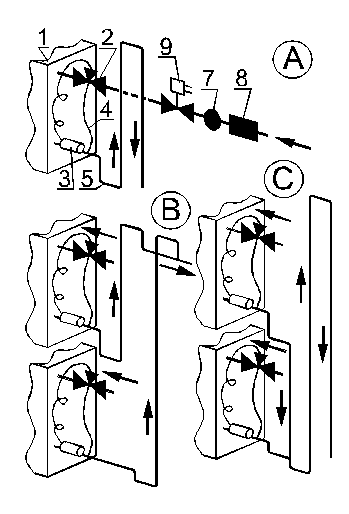
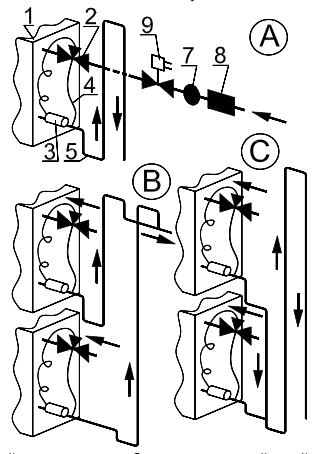
feat: catalog +1 and some fixes

Changed region(s): [[0.0312, 0.0, 0.9657, 1.0], [0.7788, 0.0308, 0.9034, 0.1542]]

diff --git a/index.html b/index.html
@@ -70,7 +70,7 @@
     <input type="radio" name="radioT" id="t3">
     <input type="radio" name="radioT" id="t4">
     <input type="radio" name="radioT" id="t5">
-    <input type="radio" name="radioT" id="t6">
+    <input type="radio" name="radioT" id="t6" checked>
     <input type="radio" name="radioT" id="t7">
     <input type="radio" name="radioT" id="t8">
     <input type="radio" name="radioT" id="t9">
@@ -1055,8 +1055,8 @@
         <p class="litP">Теплообменники могут работать в любом положении, но необходимо помнить, что располагать теплообменники следует так, чтобы можно было обеспечить отвод воздуха из него (вентили отвода воздуха быть расположены в наиболее высоком месте теплообменника).</p>
         <p class="litP">Для удобства обслуживания и ремонта теплообменника рекомендуется оборудовать места его подключения к гидросети разъёмными соединениями с запорными вентилями.</p>
         <p class="litP">Теплообменник можно монтировать непосредственно в разрыве воздуховода без индивидуального подвеса, но не допустимо нагружать его конструкцию весом присоединяемых воздуховодов и трубопроводов энергоносителя.</p>
-        <img src="images/catal1/img4.png" alt="" class="litImg left">
-        <p class="litP"  style="clear: right;"><strong>ВНИМАНИЕ:</strong> Недопустимо нагружать его конструкцию весом при- соединяемых воздуховодов и трубопроводов теплоносителя. Используемые для управления производительностью теплообменника смесительные узлы и другая аппаратура может присоединяются непосредственно к патрубкам коллекторов теплообменника, но при должна иметь индивидуальное крепление.</p>
+        <img src="images/catal1/img4.jpeg" alt="" class="litImg left">
+        <p class="litP"  style="clear: right;"><strong>ВНИМАНИЕ:</strong> Недопустимо нагружать его конструкцию весом присоединяемых воздуховодов и трубопроводов теплоносителя. Используемые для управления производительностью теплообменника смесительные узлы и другая аппаратура может присоединяются непосредственно к патрубкам коллекторов теплообменника, но при должна иметь индивидуальное крепление.</p>
         <p class="litP"><strong>ВНИМАНИЕ:</strong> При присоединении трубопроводов теплоносителя недопустима передача усилия затяжки резьбовых соединений на коллекторы теплообменника</p>
         <p class="litP">Для предотвращения засорения воздухонагревателя необходимо предусмотреть предварительную очистку входящего в него воздуха и теплоносителя фильтрами.</p>
         <div class="flex-box" style="clear: left;">
@@ -1121,7 +1121,7 @@
         <p class="litP">Теплообменники могут работать в любом положении, но необходимо помнить, что располагать теплообменники следует так, чтобы можно было обеспечить отвод воздуха из него (вентили отвода воздуха быть расположены в наиболее высоком месте теплообменника).</p>
         <p class="litP">Для удобства обслуживания и ремонта теплообменника рекомендуется оборудовать места его подключения к гидросети разъёмными соединениями с запорными вентилями.</p>
         <p class="litP">Теплообменник можно монтировать непосредственно в разрыве воздуховода без индивидуального подвеса, но не допустимо нагружать его конструкцию весом присоединяемых воздуховодов и трубопроводов энергоносителя.</p>
-        <img src="images/catal1/img4.png" alt="" class="litImg left">
+        <img src="images/catal1/img4.jpeg" alt="" class="litImg left">
         <p class="litP"  style="clear: right;"><strong>ВНИМАНИЕ:</strong> Недопустимо нагружать его конструкцию весом при- соединяемых воздуховодов и трубопроводов теплоносителя. Используемые для управления производительностью теплообменника смесительные узлы и другая аппаратура может присоединяются непосредственно к патрубкам коллекторов теплообменника, но при должна иметь индивидуальное крепление.</p>
         <p class="litP"><strong>ВНИМАНИЕ:</strong> При присоединении трубопроводов теплоносителя недопустима передача усилия затяжки резьбовых соединений на коллекторы теплообменника</p>
         <p class="litP">Для предотвращения засорения воздухонагревателя необходимо предусмотреть предварительную очистку входящего в него воздуха и теплоносителя фильтрами.</p>
@@ -1178,7 +1178,7 @@
         <p class="litP">Теплообменники могут работать в любом положении, но необходимо помнить, что располагать теплообменники следует так, чтобы можно было обеспечить отвод воздуха из него (вентили отвода воздуха быть расположены в наиболее высоком месте теплообменника).</p>
         <p class="litP">Для удобства обслуживания и ремонта теплообменника рекомендуется оборудовать места его подключения к гидросети разъёмными соединениями с запорными вентилями.</p>
         <p class="litP">Теплообменник можно монтировать непосредственно в разрыве воздуховода без индивидуального подвеса, но не допустимо нагружать его конструкцию весом присоединяемых воздуховодов и трубопроводов энергоносителя.</p>
-        <img src="images/catal1/img4.png" alt="" class="litImg left">
+        <img src="images/catal1/img4.jpeg" alt="" class="litImg left">
         <p class="litP"  style="clear: right;"><strong>ВНИМАНИЕ:</strong> Недопустимо нагружать его конструкцию весом при- соединяемых воздуховодов и трубопроводов теплоносителя. Используемые для управления производительностью теплообменника смесительные узлы и другая аппаратура может присоединяются непосредственно к патрубкам коллекторов теплообменника, но при должна иметь индивидуальное крепление.</p>
         <p class="litP"><strong>ВНИМАНИЕ:</strong> При присоединении трубопроводов теплоносителя недопустима передача усилия затяжки резьбовых соединений на коллекторы теплообменника</p>
         <p class="litP">Для предотвращения засорения воздухонагревателя необходимо предусмотреть предварительную очистку входящего в него воздуха и теплоносителя фильтрами.</p>
@@ -1279,8 +1279,8 @@
         <p class="litH">TEF 03. 12. L0</p>
         <ul style="padding-left: 1vw;">
           <li class="litP"><strong>TEF</strong> - обозначение</li>
-          <li class="litP"><strong>03.</strong> - обозначение рядности теплообменника (3 или 4-х рядный)</li>
-          <li class="litP"><strong>12 - типоразмер</strong></li>
+          <li class="litP"><strong>03</strong> - обозначение рядности теплообменника (3 или 4-х рядный)</li>
+          <li class="litP"><strong>12</strong> - типоразмер</li>
           <li class="litP"><strong>40-20</strong> -  проходное сечение (типоразмер) размер А (см) – Б (см)</li>
         </ul>
         <div class="flex-box" style="margin-top: 1.7vw;">
@@ -1315,8 +1315,70 @@
       <div class="about-type" value="6">
         <p class="mainP">Водяные нагреватели для центральных кондиционеров (КАН) TEW</p>
         <hr>
-        <p class="bigP">НАЗНАЧЕНИЕ И КОНСТРУКЦИЯ</p>
-        <p class="litP"></p>
+        <div class="flex-box">
+          <img src="images/catal6/k.6.1.jpeg" alt="" class="bigImg" id="bigImg4">
+          <div>
+            <p class="bigP">ОБЩИЕ СВЕДЕНИЯ ОБ ИЗДЕЛИИ </p>
+            <p class="litP">Теплообменник TEW (ТУ 28.25.11-560-99713521-2021)</p>
+            <p class="litP">Рабочая температура воды в сети: 170°C</p>
+            <p class="litP">Максимально допустимое давление воды в сети: 1,5 МПа</p>
+            <p class="bigP">НАЗНАЧЕНИЕ И КОНСТРУКЦИЯ</p>
+            <p class="litP">Теплообменники предназначены для нагрева путем энергообмена входящего воздуха и других невзрывоопасных газовых смесей, агрессивность которых по отношению к углеродистым сталям обыкновенного качества не выше агрессивности воздуха, не содержащих липких веществ, волокнистых и абразивных материалов, с содержанием пыли и других твердых примесей не более 100 мг/м3.</p>
+            <p class="litP">Теплообменники предназначены для эксплуатации в условиях умеренного (У) климата 3-й категории размещения по ГОСТ 15150. </p>
+            <p class="litP">Конструктивно теплообменники являются 2-х и 3-х рядными медно-алюминиевыми пластинчатыми теплообменными агрегатами. Поверхность теплообмена изготовлена из алюминиевых пластин толщиной 0,13 мм и проходящих через них медных трубок (для типоразмеров 06...12 - диаметр   3/8’’/9.52мм, для типоразмеров 20...35 - диаметр 1/2’’/12,7 мм). Расположение трубок шахматное. Неразборный корпус изготавливается из оцинкованного листа марки 08ПС. Присоединение трубопроводов теплоносителя - резьбовое.</p>
+          </div>
+        </div>
+        <p class="litP"><strong>Примечание:</strong> Изготовитель может вносить в конструкцию изделий изменения, не ухудшающие их потребительских качеств и не учтенных в настоящем паспорте.</p>
+        <hr>
+        <p class="bigP" style="clear: both;">ТЕХНИЧЕСКИЕ ХАРАКТЕРИСТИКИ</p>
+        <p class="litP">Схема обозначения теплообменника:</p>
+        <p class="litH">TEW 02. 12. N0</p>
+        <ul style="padding-left: 1vw;">
+          <li class="litP"><strong>TEF</strong> - обозначение</li>
+          <li class="litP"><strong>02</strong> - рядность теплообменника (2 или 3)</li>
+          <li class="litP"><strong>12</strong> - типоразмер</li>
+          <li class="litP"><strong>N0</strong> -  нагреватель</li>
+        </ul>
+        <div class="flex-box">
+          <img src="images/catal6/k.6.2.jpeg" alt="" class="fullWidthImg">
+        </div>
+        <hr>
+        <p class="bigP">МОНТАЖ И ЭКСПЛУАТАЦИЯ</p>
+        <p class="litH">Монтаж</p>
+        <p class="litP">Монтаж теплообменника должен производиться в соответствии с требованиями ГОСТ 12.4.021-75, СниП 3.05.01-83, проектной документации и настоящего паспорта. </p>
+        <p class="litP">Перед монтажом необходимо произвести осмотр теплообменника. При обнаружении повреждений, дефектов, полученных в результате неправильной транспортировки или хранения, ввод его в эксплуатацию без согласования с предприятием-продавцом не допускается.</p>
+        <img src="images/catal1/img3.png" alt="" class="litImg right">
+        <p class="litP">Теплообменники могут работать в любом положении, но неободимо помнить, что располагать теплообменники следует так, чтобы можно было обеспечить отвод воздуха из него (вентили отвода воздуха быть расположены в наиболее высоком месте теплообменника). </p>
+        <p class="litP">Для удобства обслуживания и ремонта теплообменника рекомендуется оборудовать места его подключения к гидросети разъёмными соединениями с запорными вентилями.</p>
+        <p class="litP">Теплообменник можно монтировать непосредственно в разрыве воздуховода без индивидуального подвеса, но не допустимо нагружать его конструкцию весом присоединяемых воздуховодов и трубопроводов энергоносителя.</p>
+        <p class="litP">Монтаж теплообменника в системе вентиляции осуществляется путем присоединения его фланцев через штатные отверстия в углах к ответным фланцам воздуховодов при помощи болтов М8 с гайками и шайбами “гровер” и стяжных скоб (в комплект поставки не входят). Стяжные скобы рекомендуется устанавливать на фланцы с длиной стороны более 40см, с шагом 20-30см. Места соединения фланцев необходимо герметизировать.</p>
+        <img src="images/catal1/img4.jpeg" alt="" class="litImg left">
+        <p class="litP"  style="clear: right;"><strong>ВНИМАНИЕ:</strong> Недопустимо нагружать его конструкцию весом присоединяемых воздуховодов и трубопроводов теплоносителя. Используемые для управления производительностью теплообменника смесительные узлы и другая аппаратура может присоединяются непосредственно к патрубкам коллекторов теплообменника, но при должна иметь индивидуальное крепление.</p>
+        <p class="litP"><strong>ВНИМАНИЕ:</strong> При присоединении трубопроводов теплоносителя недопустима передача усилия затяжки резьбовых соединений на коллекторы теплообменника</p>
+        <p class="litP">Для предотвращения засорения воздухонагревателя необходимо предусмотреть предварительную очистку входящего в него воздуха и теплоносителя фильтрами.</p>
+        <div class="flex-box" style="clear: left;">
+          <div>
+            <p class="litP">При подключении трубопроводов энергоносителя возможно использование двух схем (см. рисунок).</p>
+            <p class="litP"><strong>Противоточное подключение</strong> – обеспечивает максимальную мощность, но менее морозоустойчиво.</p>
+            <p class="litP"><strong>Прямоточное подключение</strong> – обеспечивает большую морозоустойчивость, но дает несколько пониженную мощность.</p>
+            <p class="litP"><strong>ВНИМАНИЕ!</strong> Для использования теплообменника в качестве охладителя рекомендуется противоточная схема его подключения.</p>
+          </div>
+          <img src="images/catal1/img6.png" alt="" class="litImg right bigWidth">
+        </div>
+        <p class="litP">Установку датчиков контроля температуры энергоносителя допускается производить на места штатных пробок G 1/2" в торцах коллекторов.</p>
+        <p class="litH">Эксплуатация</p>
+        <p class="litP">Теплообменники позволяют использовать в качестве теплоносителя не только воду, но и незамерзающие смеси. Для случая, когда теплоносителем является вода, теплообменники предназначены только для внутреннего использования в помещениях, где температура не опускается ниже температуры замерзания воды. При использовании незамерзающих смесей возможно наружное применение теплообменников. </p>
+        <p class="litP"><strong>Примечание:</strong> Используемый теплоноситель не должен содержать твердых примесей и агрессивных веществ, вызывающих коррозию, химическое разложение меди и стали. </p>
+        <p class="litH">Рекомендуемые параметры магистральной воды используемой как энергоноситель</p>
+        <div style="width: 100%; text-align: center;"> 
+          <img src="images/catal1/img5.png" alt="" class="fullWidthImg">
+        </div>
+        <p class="litP">Заполнение теплообменника водой (энергоносителем) производится при частично открытом вентиле подачи с одновременным открытием выхода для удаления воздуха;</p>
+        <p class="litP">Для спуска воздуха и слива энергоносителя из контура теплообменника в обоих коллекторах предусмотрены резьбовые конические пробки М8х1 по DIN 906.</p>
+        <p class="litP">Опорожнение теплообменника производится при закрытии крана подачи и медленном открытии сливного крана до падения давления, затем открыть выход для выпуска воздуха и до конца открыть сливной вентиль;</p>
+        <p class="litP"><strong>Примечание:</strong> Для гарантированного полного слива теплоносителя из контура теплообменника рекомендуется производить окончательную их продувку сжатым воздухом (давление 0,2 – 0,3МПа) через патрубки спуска воздуха или слива воды при полностью открытой на слив гидросистеме и закрытой подаче на входе. </p>
+        <p class="litP">Во избежание снижения эффективности работы теплообменника необходимо регулярно (в среднем через 500 часов работы) осматривать и прочищать блок ламелей теплообменника от пыли и грязи. </p>
+        <p class="litP">В случае замятия ламелей (алюминиевых пластин) теплообменника их необходимо выпрямить специальным инструментом – гребёнкой. </p>
       </div>
       
       <div class="about-type" value="7">

diff --git a/zapros.html b/zapros.html
@@ -80,13 +80,13 @@
     <div class="form-wrapper">
       <div class="form-box">
         <h2 class="formH2">Водяные теплообменники</h2>
-        <img src="images/opros.png" alt="formPhoto" class="formImg">
-        <a href="images/opros1.pdf" download target="_blank"><button class="buttonF">Скачать опросный лист</button></a>
+        <img src="images/zapros-images/opros.png" alt="formPhoto" class="formImg">
+        <a href="images/zapros-images/opros1.pdf" download target="_blank"><button class="buttonF">Скачать опросный лист</button></a>
       </div>
       <div class="form-box">
         <h2 class="formH2">Фреоновые теплообменники</h2>
-        <img src="images/opros1.png" alt="formPhoto" class="formImg">
-        <a href="images/opros2.pdf" download target="_blank"><button class="buttonF">Скачать опросный лист</button></a>
+        <img src="images/zapros-images/opros1.png" alt="formPhoto" class="formImg">
+        <a href="images/zapros-images/opros2.pdf" download target="_blank"><button class="buttonF">Скачать опросный лист</button></a>
       </div>
     </div>
   </main>
